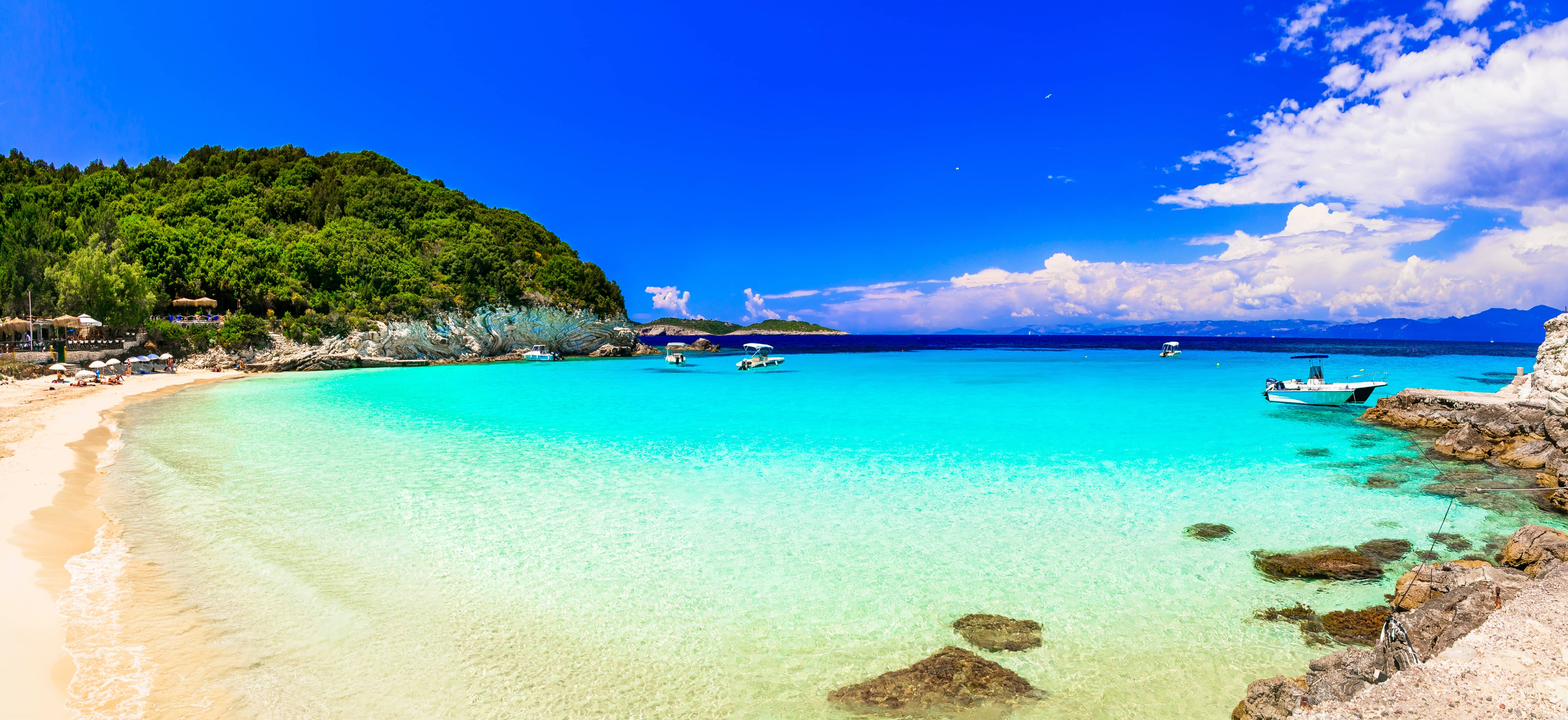
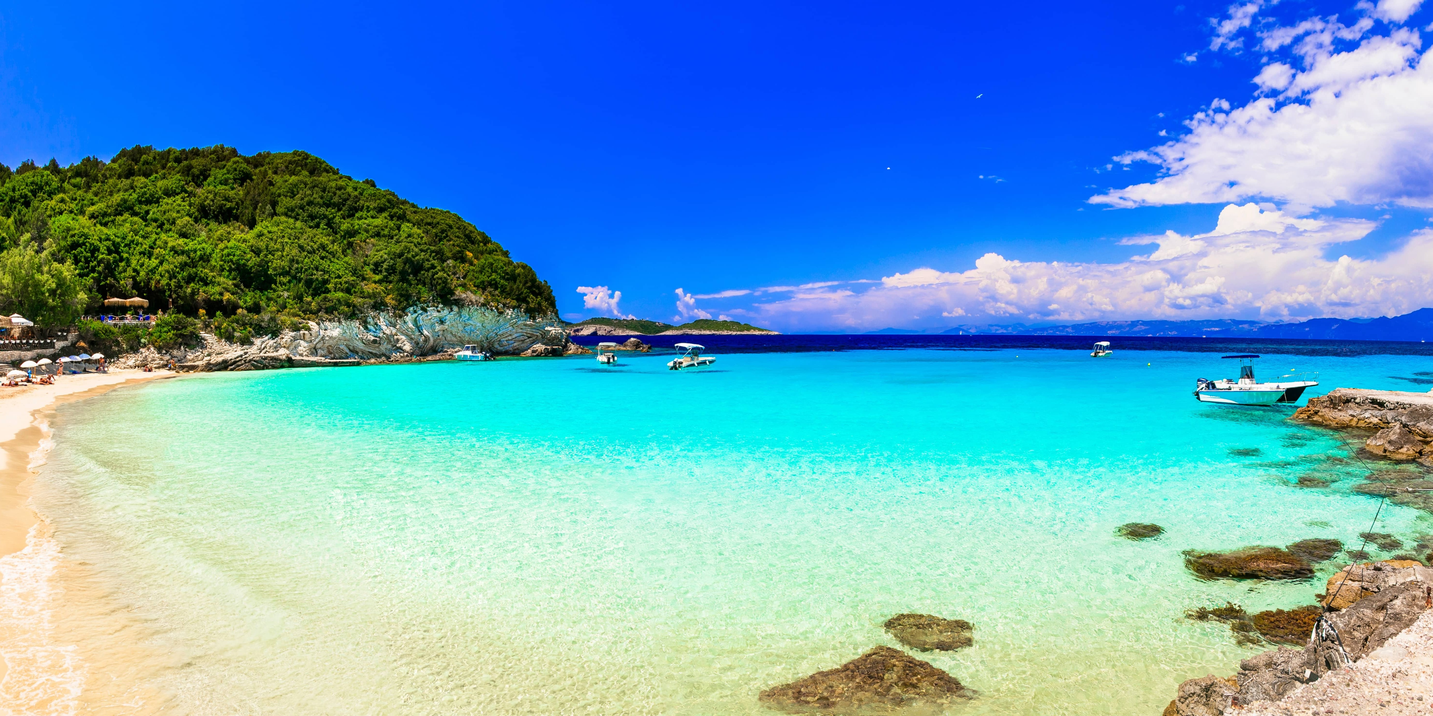
feat: changed the ratio on the images

diff --git a/Alexander/js/script.js b/Alexander/js/script.js
@@ -23,6 +23,8 @@ const offers = [
     }
 ];
 
+let selectedOffer = null;
+
 function renderOffers() {
   // map ger en ny array med ett kort per lokal. join gör om arrayen till en enda text.
   const offerList = document.getElementById('offerList')
@@ -46,38 +48,6 @@ function createOfferCard(offer) {
         </div>
     </div>
   `;
-}
-
-
-let selectedOffer = null;
-
-function selectOffer() {
-    offers.forEach(offer => {
-        const offerButton = document.getElementById(offer.id);
-
-        offerButton.addEventListener('click', () => {
-
-            // Ta bort markeringen från alla knappar
-            offers.forEach(otherOffer => {
-                const otherButton = document.getElementById(otherOffer.id);
-                otherButton.classList.remove('Selected');
-            });
-
-            // Markera den valda knappen
-            offerButton.classList.add('Selected');
-
-            // Spara det valda erbjudandet
-            selectedOffer = offer;
-
-            // Visa, nollställ och uppdatera formulär
-            showForm()
-            clearForm()
-            updateFormInfo()
-
-            // Dölj bokningsbekräftels
-            hideBooking()
-        });
-    });
 }
 
 function showForm () {
@@ -352,6 +322,38 @@ function updateBookingInfo(offer, firstName, lastName, email, people, price){
     const bookingTotal = document.getElementById("confirmedPrice")
     bookingTotal.textContent = `${price} kr`
 }
+
+// knappar
+
+function selectOffer() {
+    offers.forEach(offer => {
+        const offerButton = document.getElementById(offer.id);
+
+        offerButton.addEventListener('click', () => {
+
+            // Ta bort markeringen från alla knappar
+            offers.forEach(otherOffer => {
+                const otherButton = document.getElementById(otherOffer.id);
+                otherButton.classList.remove('Selected');
+            });
+
+            // Markera den valda knappen
+            offerButton.classList.add('Selected');
+
+            // Spara det valda erbjudandet
+            selectedOffer = offer;
+
+            // Visa, nollställ och uppdatera formulär
+            showForm()
+            clearForm()
+            updateFormInfo()
+
+            // Dölj bokningsbekräftels
+            hideBooking()
+        });
+    });
+}
+
 
 renderOffers()
 selectOffer()

diff --git a/Alexander/index.html b/Alexander/index.html
@@ -21,8 +21,7 @@
                         <a class="nav-link" href="#">Historia</a>
                         <a class="nav-link text-primary" href="#">Aktiviteter</a>
                         <a class="nav-link" href="#">Planera resan</a>
-                        <a class="nav-link" href="#">Mat & dryck</a>
-                        <a class="nav-link" href="#">Boka idag</a>                       
+                        <a class="nav-link" href="#">Mat & dryck</a>                     
                     </div>
                 </div>
             </div>
